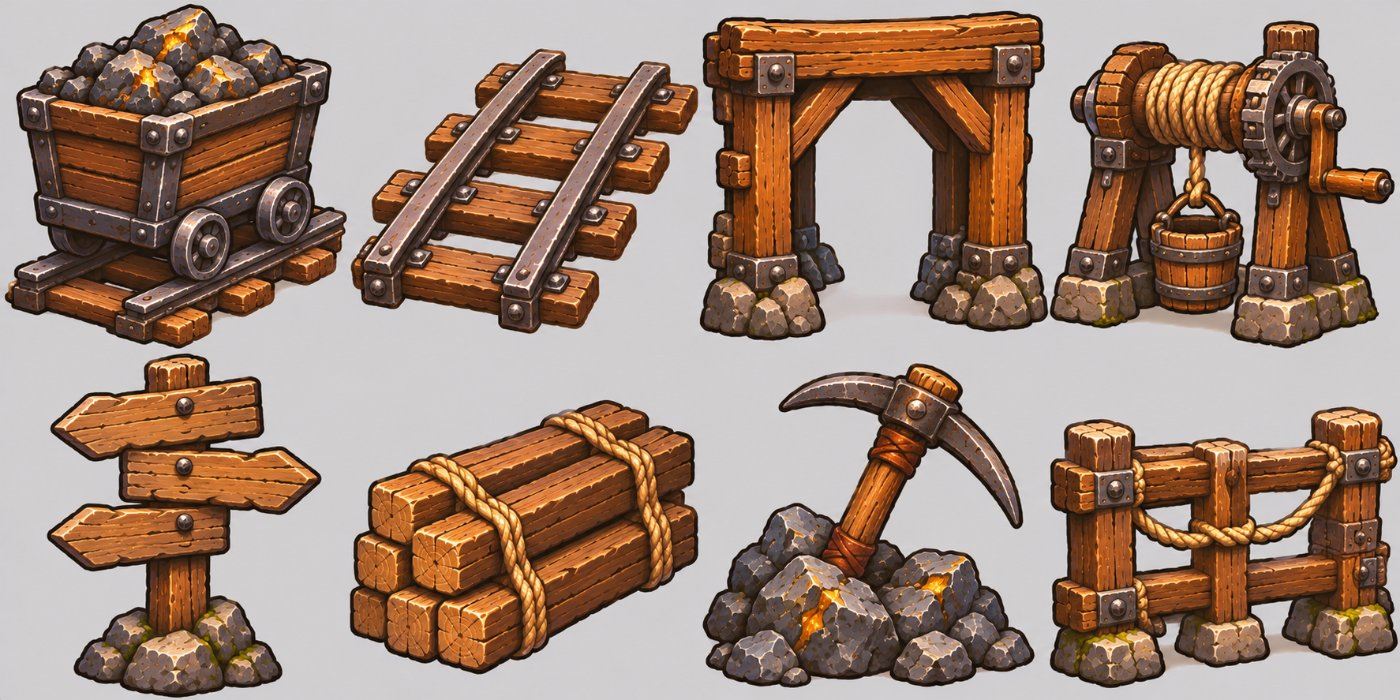
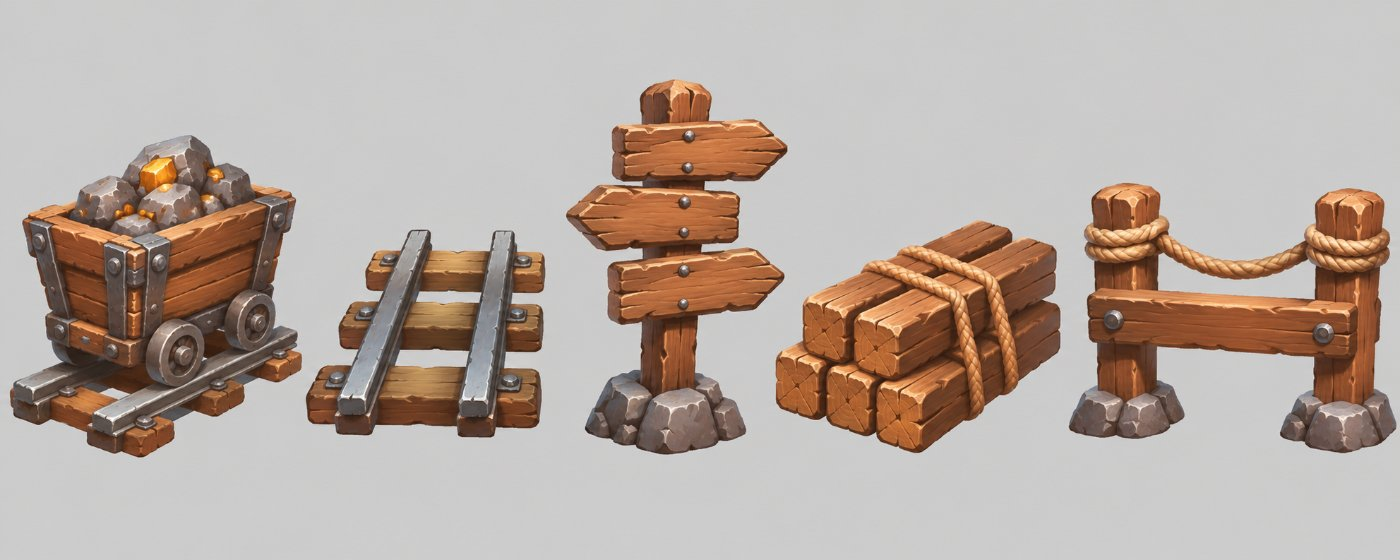
Redo 4 night pictures from owner notes F63-F66 (mine props, 3-leg pot, real stone saw, lineup with old smart dwarf)

diff --git a/docs/art/NIGHT-PICTURES-2026-11-15.md b/docs/art/NIGHT-PICTURES-2026-11-15.md
@@ -11,7 +11,7 @@ November 15). Full-size originals stay in that ChatGPT chat. Logged in `CREDITS.
 |---|---|---|---|
 | Dwarf | dwarf_strong_head | 9 | |
 | Dwarf | dwarf_smart_head_old (owner's change: old, white beard, sarcastic smile) | 9 | glasses came out as goggles |
-| Dwarf | dwarf_lineup_v2_final (3 heads, same body, Leather) | 9 | |
+| Dwarf | dwarf_lineup_v3_final (3 heads, same body, Leather; smart dwarf matches his head sheet, F66) | 9 | |
 | Station | station_twin_smelter | 9 | |
 | Station | station_gem_bench | 9 | drop some small clutter |
 | Station | station_drip_bucket_and_basin | 8 | leave out the floating ceiling rocks |
@@ -23,12 +23,14 @@ November 15). Full-size originals stay in that ChatGPT chat. Logged in `CREDITS.
 | F37, F38 | fix_F38_F37_chopping_block_chest | 9 | |
 | F36, F45 | fix_F36_F45_carpentry_tanning | 8.5 | tilt the rack back more |
 | F46, F47 | fix_F46_F47_tool_rack_dummy | 9 | |
-| F39, F61 | fix_F61_F39_barrel_cooking_pot | 9 | |
-| F41, F44 | fix_F41_F44_grindstone_stone_saw | 8.5 | simpler saw handles |
+| F61 | fix_F61_F39_barrel_cooking_pot (use the barrel only) | 9 | |
+| F64 | fix_F39_F64_cooking_pot_tripod (3-leg tripod) | 9 | |
+| F41 | fix_F41_F44_grindstone_stone_saw (use the grindstone only) | 8.5 | |
+| F65 | fix_F44_F65_stone_saw (frame saw sitting in the cut) | 9 | |
 | F35 | fix_F35_campfire_fire_pit | 9 | |
 | F56 | materials_1_crafted, materials_2_raw, materials_3_creature_parts, materials_4_crystals_food | 8.5–9 | |
 | Decor | decor_furniture_shack / _stonehold / _hearthbrick | 9 / 8.5 / 9.5 | Hearthbrick: drop the clover shapes |
-| Decor | decor_lights, decor_storage_clutter, decor_mine_props, decor_wall_trophies, decor_fungal_garden | 9 | |
+| Decor | decor_lights, decor_storage_clutter, decor_mine_props (5 props: no pickaxe pile, winch or tunnel support, F63), decor_wall_trophies, decor_fungal_garden | 9 | |
 | Decor | decor_creative_beams (Valheim-style beams) | 8.5 | set the real 26° and 45° angles in Blender |
 
 ## Prompt notes that worked
@@ -38,3 +40,5 @@ November 15). Full-size originals stay in that ChatGPT chat. Logged in `CREDITS.
   ITEM ICON sheet"** and gentler words fixed it.
 - Item sheets: "12 items in a neat 4 x 3 grid, each on its own with space around it".
 - ChatGPT sometimes shows two versions ("Which image do you like more?"); pick the one with more space around items.
+
+Owner's morning notes (F63–F66) were redone the same day; the young-smart lineup, the young ginger head and the first old-smart lineup were removed.
